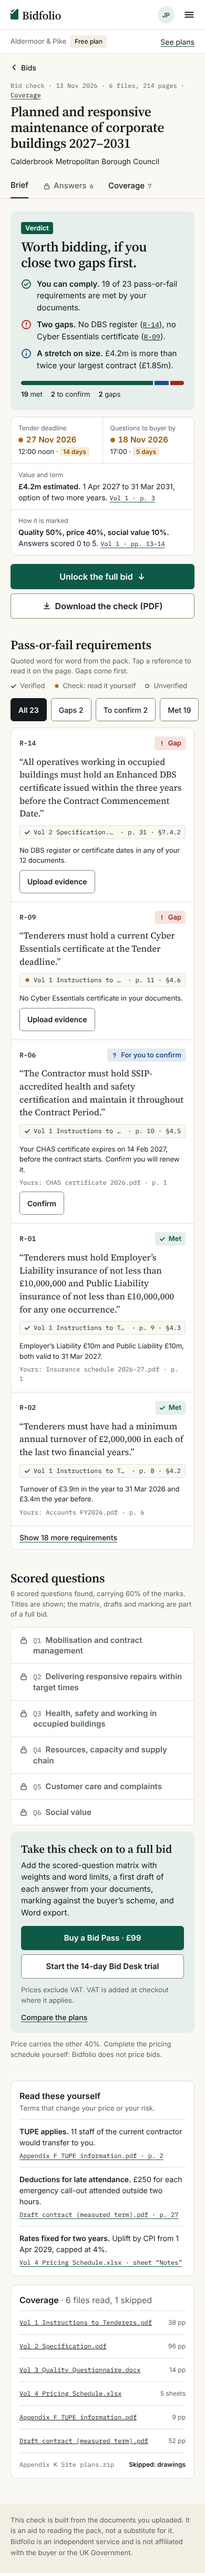
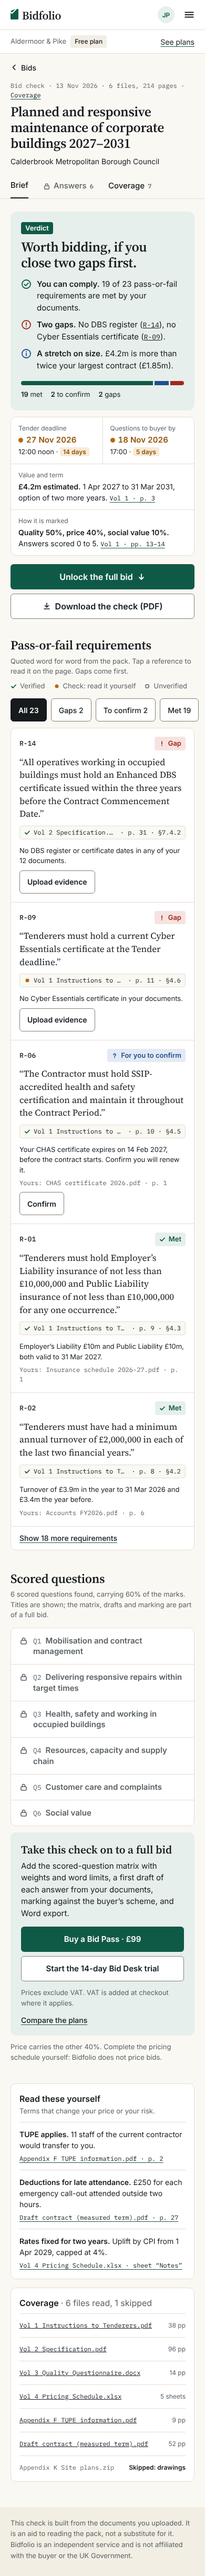
Design handoff: renders for the normalised mobile boards
Claude-Session: https://claude.ai/code/session_01QtwDV764zbwZrPMdXHyikj

diff --git a/docs/design/handoff/render/Tender-390.html b/docs/design/handoff/render/Tender-390.html
@@ -106,7 +106,7 @@ button{font-family:inherit;cursor:pointer}
     <div style="margin-top: 28px; background: #E6EFEB; border-radius: 10px; padding: 20px; display: flex; flex-direction: column">
       <h2 style="font-family: 'Source Serif 4', Georgia, serif; font-weight: 600; font-size: 21px; line-height: 1.25">Could you win this?</h2>
       <p style="margin-top: 6px; font-size: 15px; line-height: 1.5">Find your company to see how this tender matches your past work.</p>
-      <a href="Find-390.dc.html" style="margin-top: 14px; box-sizing: border-box; min-height: 46px; display: flex; align-items: center; justify-content: center; font-size: 15px; font-weight: 600; text-decoration: none; color: #161A1D; background: #FFFFFF; border: 1px solid #857F70; border-radius: 6px">Find your company</a>
+      <a href="Find-390.dc.html" style="margin-top: 14px; box-sizing: border-box; min-height: 48px; display: flex; align-items: center; justify-content: center; font-size: 15px; font-weight: 600; text-decoration: none; color: #161A1D; background: #FFFFFF; border: 1px solid #857F70; border-radius: 6px">Find your company</a>
       <a href="Landing-390.dc.html" style="align-self: center; display: inline-flex; align-items: center; min-height: 44px; font-size: 14px; text-decoration: underline; text-decoration-color: #0F5A47; text-underline-offset: 3px">What is Bidfolio?</a>
     </div>
 
